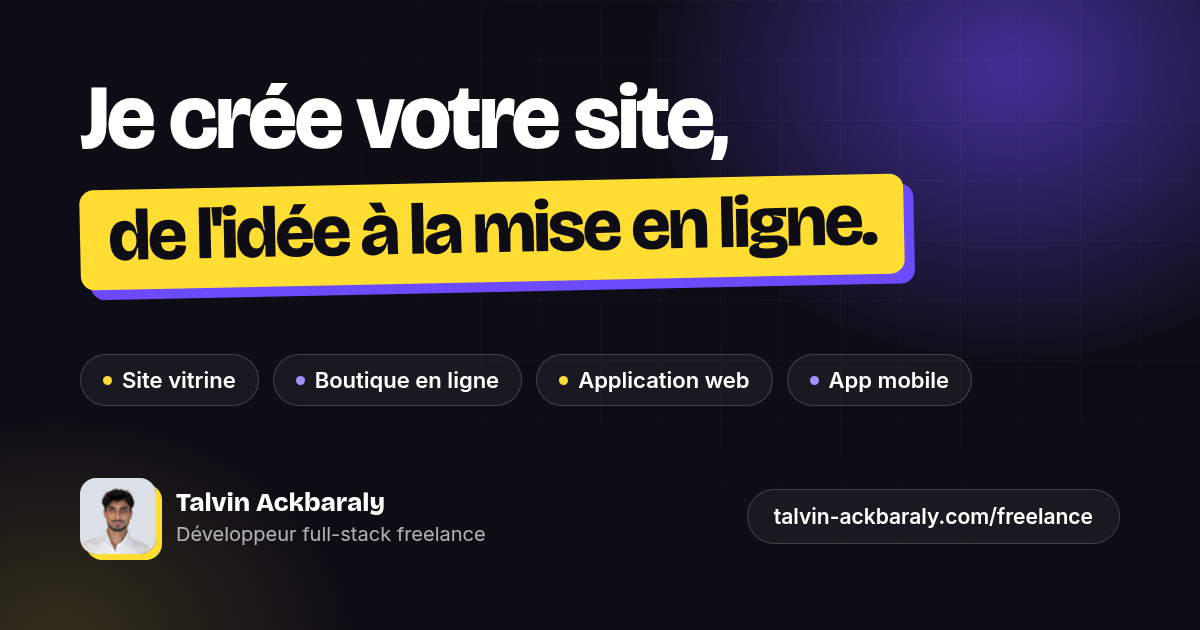
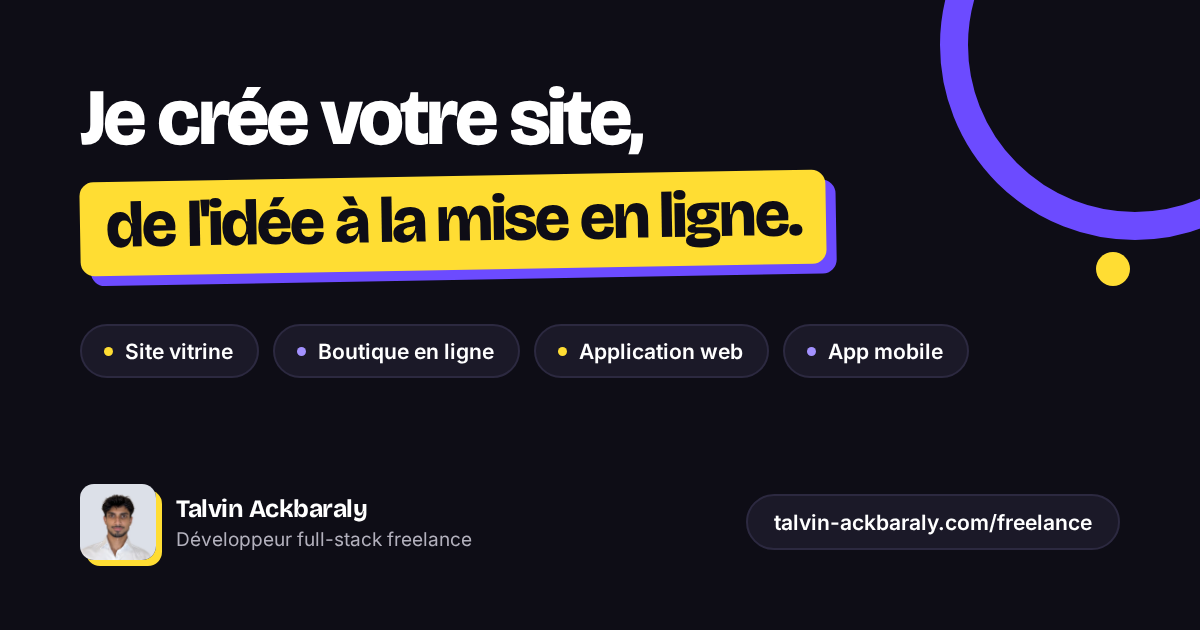
Freelance contact column, share images that survive LinkedIn (#60)
* feat(freelance): keep the contact details beside a long form

From two columns up, the contact column sticks under the header like
the offer and FAQ heads, so email and phone stay in view while the
brief form scrolls.

* fix(freelance): flat share image that survives LinkedIn's compression

LinkedIn re-encodes previews as a low-quality JPEG, which broke the
soft violet and yellow glows and the faint grid into visible blocks.
Same layout on a flat ink background, the glow replaced by a thick
violet ring.

* feat(seo): dark share images for the portfolio

The FR and EN images move to the dark theme and fill the card: the
name on two lines, the three fields as numbered cards, the internship
in a pill and the role with the hero's prototype-to-CUDA line below.
Flat colours only, so LinkedIn's compression keeps them clean.

diff --git a/css/freelance.css b/css/freelance.css
@@ -2644,6 +2644,12 @@ ol {
   .contact__grid {
     grid-template-columns: 1fr 1fr;
   }
+
+  /* The form can run long: the way to reach me stays in view beside it. */
+  .contact__text {
+    position: sticky;
+    top: 120px;
+  }
 }
 
 .contact__title {
